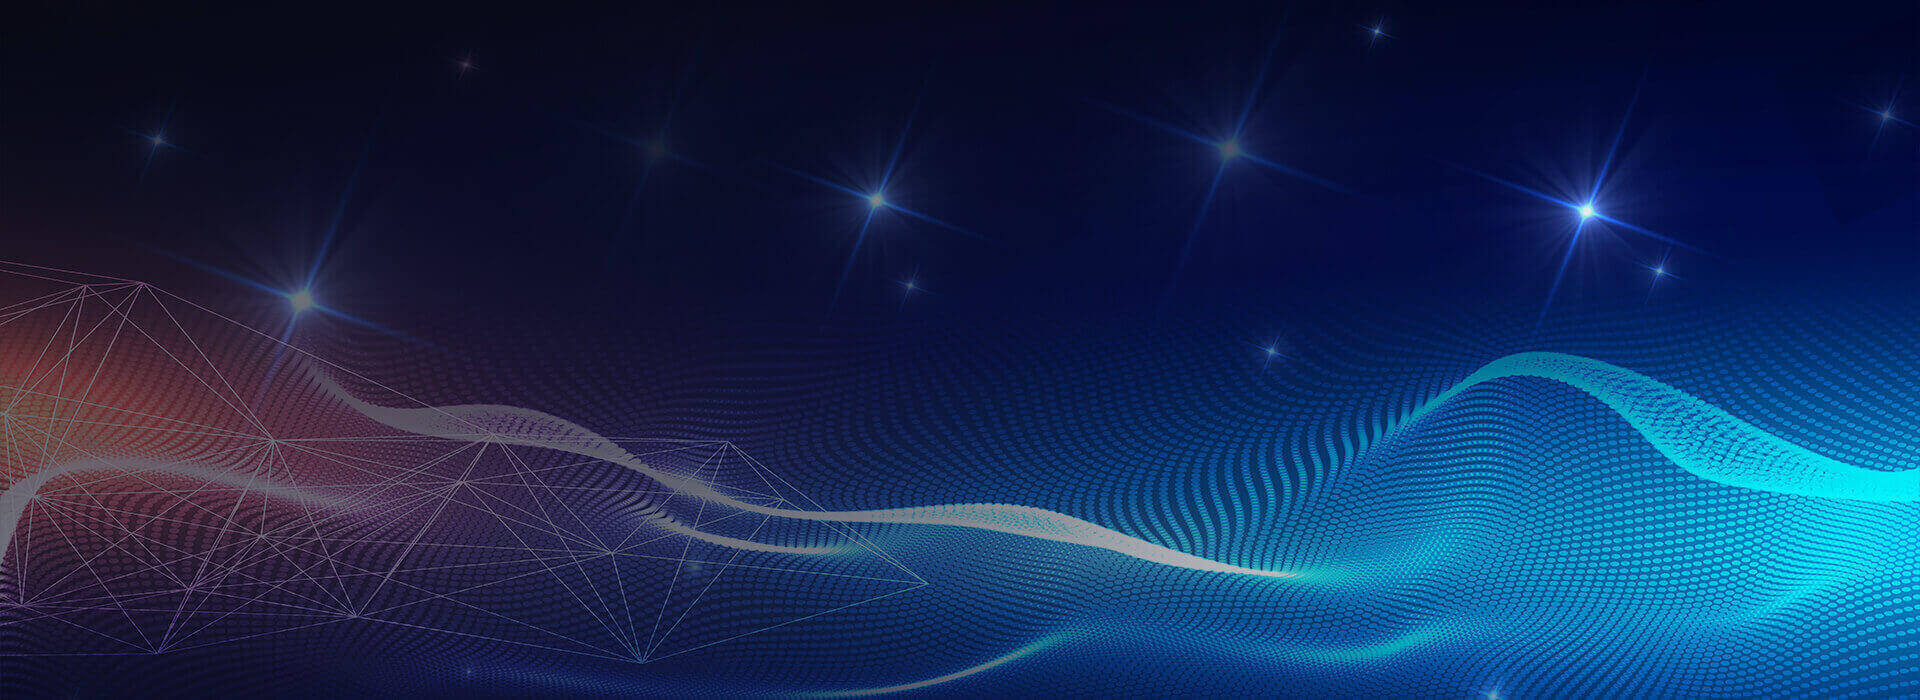
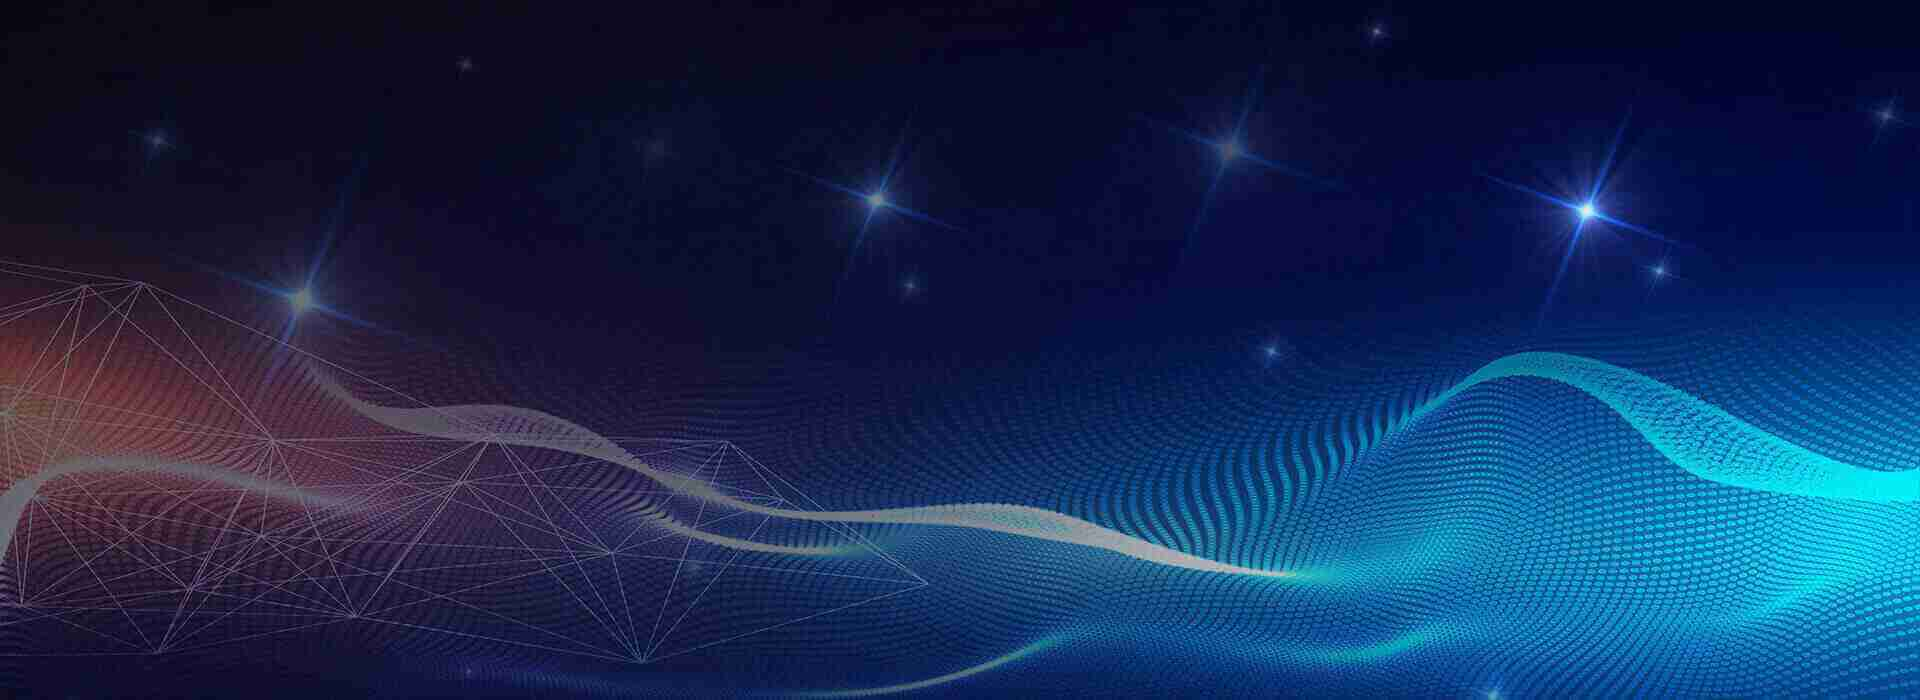
Dynamic loading number AND Compressed picture

diff --git a/js/init.js b/js/init.js
@@ -1,0 +1,140 @@
+/**
+ * Created on 2018/5/22.
+ */
+$('#menu').onePageNav({
+    currentClass: 'active',
+    changeHash: false,
+    scrollSpeed: 750,
+    scrollThreshold: 0.5,
+    filter: '',
+    easing: 'swing',
+    begin: function() {
+    },
+    end: function() {
+    },
+    scrollChange: function($currentListItem) {
+    }
+});
+$('.DB_tab25').DB_tabMotionBanner({
+    key: 'b28551',
+    autoRollingTime: 6000,
+    bgSpeed: 1000,
+    motion: {
+        DB_1_1: { left: -50, opacity: 0, speed: 1000, delay: 500 },
+        DB_1_2: { left: -50, opacity: 0, speed: 1000, delay: 1000 },
+        DB_1_3: { left: 100, opacity: 0, speed: 1000, delay: 1500 },
+        DB_2_1: { top: 50, opacity: 0, speed: 1000, delay: 500 },
+        DB_2_2: { top: 50, opacity: 0, speed: 1000, delay: 1000 },
+        DB_2_3: { top: 100, opacity: 0, speed: 1000, delay: 1500 },
+        DB_3_1: { left: -50, opacity: 0, speed: 1000, delay: 500 },
+        DB_3_2: { top: 50, opacity: 0, speed: 1000, delay: 1000 },
+        DB_3_3: { top: 0, opacity: 0, speed: 1000, delay: 1500 },
+        end: null
+    }
+})
+//Show nodes info
+var nodes_key = 'xw5G12GHWQSGVwXWZSX03VtJHKBfAZzk';
+$.post("action.php",{nodes_key: nodes_key},
+function(data){
+    var result = eval("("+data+")");
+    if(result != 0 ){
+        $("#number-nodes").attr('data-to', result.number_nodes);
+        $("#free-quantity").attr('data-to', result.free_quantity);
+        $("#busy-quantity").attr('data-to', result.busy_quantity);
+    }
+    var wrapTop = $(".main-info").offset().top;
+    var istrue = true;
+    $(window).on("scroll",
+        function() {
+            var s = $(window).scrollTop();
+            if (s > wrapTop - 500 && istrue) {
+                $(".timer").each(count);
+                function count(a) {
+                    var b = $(this);
+                    a = $.extend({},
+                        a || {},
+                        b.data("countToOptions") || {});
+                    b.countTo(a)
+                };
+                istrue = false;
+            };
+        })
+    //设置计数
+    $.fn.countTo = function (options) {
+        options = options || {};
+        return $(this).each(function () {
+            //当前元素的选项
+            var settings = $.extend({}, $.fn.countTo.defaults, {
+                from:            $(this).data('from'),
+                to:              $(this).data('to'),
+                speed:           $(this).data('speed'),
+                refreshInterval: $(this).data('refresh-interval'),
+                decimals:        $(this).data('decimals')
+            }, options);
+            //更新值
+            var loops = Math.ceil(settings.speed / settings.refreshInterval),
+                increment = (settings.to - settings.from) / loops;
+            //更改应用和变量
+            var self = this,
+                $self = $(this),
+                loopCount = 0,
+                value = settings.from,
+                data = $self.data('countTo') || {};
+            $self.data('countTo', data);
+            //如果有间断，找到并清除
+            if (data.interval) {
+                clearInterval(data.interval);
+            };
+            data.interval = setInterval(updateTimer, settings.refreshInterval);
+            //初始化起始值
+            render(value);
+            function updateTimer() {
+                value += increment;
+                loopCount++;
+                render(value);
+                if (typeof(settings.onUpdate) == 'function') {
+                    settings.onUpdate.call(self, value);
+                }
+                if (loopCount >= loops) {
+                    //移出间隔
+                    $self.removeData('countTo');
+                    clearInterval(data.interval);
+                    value = settings.to;
+                    if (typeof(settings.onComplete) == 'function') {
+                        settings.onComplete.call(self, value);
+                    }
+                }
+            }
+            function render(value) {
+                var formattedValue = settings.formatter.call(self, value, settings);
+                $self.html(formattedValue);
+            }
+        });
+    };
+    $.fn.countTo.defaults={
+        from:1,               //数字开始的值
+        to:0,                 //数字结束的值
+        speed:1000,           //设置步长的时间
+        refreshInterval:3,    //隔间值
+        decimals:0,           //显示小位数
+        formatter: formatter, //渲染之前格式化
+        onUpdate:null,        //每次更新前的回调方法
+        onComplete:null       //完成更新的回调方法
+    };
+    function formatter(value, settings){
+        return value.toFixed(settings.decimals);
+    }
+    //自定义格式
+    $('#number-nodes').data('countToOptions',{
+        formmatter:function(value, options){
+            return value.toFixed(options.decimals).replace(/\B(?=(?:\d{3})+(?!\d))/g, ',');
+        }
+    });
+    //定时器
+    $('.timer').each(count);
+    function count(options){
+        var $this=$(this);
+        options=$.extend({}, options||{}, $this.data('countToOptions')||{});
+        $this.countTo(options);
+    }
+});

diff --git a/index.html b/index.html
@@ -6,7 +6,7 @@
     <meta name="viewport" content="width=device-width, initial-scale=1">
     <title>Lsnet Official website</title>
     <link href="css/bootstrap.min.css" rel="stylesheet">
-    <link href="css/style.css?v=201815183066" rel="stylesheet" type="text/css">
+    <link href="css/style.css?v=201805221542" rel="stylesheet" type="text/css">
     <!--[if lt IE 9]>
     <script src="js/html5shiv.min.js"></script>
     <script src="js/respond.min.js"></script>
@@ -62,7 +62,7 @@
             <ul class="DB_bgSet">
                 <li class="banner"><img src="images/bj01.jpg"/></li>
                 <li class="banner"><img src="images/bj02.jpg"/></li>
-                <li class="banner"><img src="images/bj03.jpg"/></li>
+                <li class="banner"><img src="images/bj03.jpg?v=123"/></li>
                 <li class="banner"><img src="images/bj04.jpg"/></li>
             </ul>
             <ul class="DB_imgSet">
@@ -139,15 +139,15 @@
                 <div class="show-node-info">
                     <img src="images/3words.png?v=6" class="words3"/>
                     <span class="node_num">
-                        <p class="fonts_30" id="number-nodes"> - </p>
+                        <p class="fonts_30 timer" id="number-nodes" data-to="500" data-speed="1500"> - </p>
                         <p>Number of nodes</p>
                     </span>
                     <span class="node_num">
-                        <p class="fonts_30" id="free-quantity"> - </p>
+                        <p class="fonts_30 timer" id="free-quantity" data-to="200" data-speed="1500"> - </p>
                         <p>Free quantity </p>
                     </span>
                     <span class="node_num">
-                        <p class="fonts_30" id="busy-quantity"> - </p>
+                        <p class="fonts_30 timer" id="busy-quantity" data-to="300" data-speed="1500"> - </p>
                         <p>Busy quantity</p>
                     </span>
                 </div>
@@ -203,47 +203,11 @@
 </section>
 <!-- Main Slider End -->
 <!--loading JS-->
-<script src="js/jquery.min.js"></script>
-<script src="js/bootstrap.min.js"></script>
-<script src="js/jquery.DB_tabMotionBanner.min.js"></script>
-<script src="js/jquery-migrate-1.2.1.js"></script>
-<script src="js/jquery.nav.js"></script>
-<script type="text/javascript">
-    $('#menu').onePageNav({
-        currentClass: 'active',
-        changeHash: false,
-        scrollSpeed: 750,
-        scrollThreshold: 0.5,
-        filter: '',
-        easing: 'swing',
-        begin: function() {
-        },
-        end: function() {
-        },
-        scrollChange: function($currentListItem) {
-        }
-    });
-    $('.DB_tab25').DB_tabMotionBanner({
-        key: 'b28551',
-        autoRollingTime: 6000,
-        bgSpeed: 1000,
-        motion: {
-            DB_1_1: { left: -50, opacity: 0, speed: 1000, delay: 500 },
-            DB_1_2: { left: -50, opacity: 0, speed: 1000, delay: 1000 },
-            DB_1_3: { left: 100, opacity: 0, speed: 1000, delay: 1500 },
-            DB_2_1: { top: 50, opacity: 0, speed: 1000, delay: 500 },
-            DB_2_2: { top: 50, opacity: 0, speed: 1000, delay: 1000 },
-            DB_2_3: { top: 100, opacity: 0, speed: 1000, delay: 1500 },
-            DB_3_1: { left: -50, opacity: 0, speed: 1000, delay: 500 },
-            DB_3_2: { top: 50, opacity: 0, speed: 1000, delay: 1000 },
-            DB_3_3: { top: 0, opacity: 0, speed: 1000, delay: 1500 },
-            end: null
-        }
-    })
-    //Show nodes info
-    $("#number-nodes").html('1000');
-    $("#free-quantity").html('250');
-    $("#busy-quantity").html('750');
-</script>
+<script type="text/javascript" src="js/jquery.min.js"></script>
+<script type="text/javascript" src="js/bootstrap.min.js"></script>
+<script type="text/javascript" src="js/jquery.DB_tabMotionBanner.min.js"></script>
+<script type="text/javascript" src="js/jquery-migrate-1.2.1.js"></script>
+<script type="text/javascript" src="js/jquery.nav.js"></script>
+<script type="text/javascript" src="js/init.js"></script>
 </body>
 </html>

diff --git a/css/style.css b/css/style.css
@@ -255,6 +255,7 @@ header.page-header .main-menu.minified{ position: fixed; }
 }
 .node_title .fonts_30{
     font-size: 30px;
+    font-weight: 900;
 }
 
 /* LINKS*/

diff --git a/action.php b/action.php
@@ -1,0 +1,19 @@
+<?php
+/**
+ * 获取节点的数量
+ * 2018-05-22
+ */
+
+$nodes_key = $_POST['nodes_key'];
+if($nodes_key == 'xw5G12GHWQSGVwXWZSX03VtJHKBfAZzk')
+{
+    exit(json_encode(
+    	array(
+    		'number_nodes'=>250,
+    		'free_quantity'=>150,
+    		'busy_quantity'=>100
+    	)
+    ));
+}else{
+	exit('0');
+}
